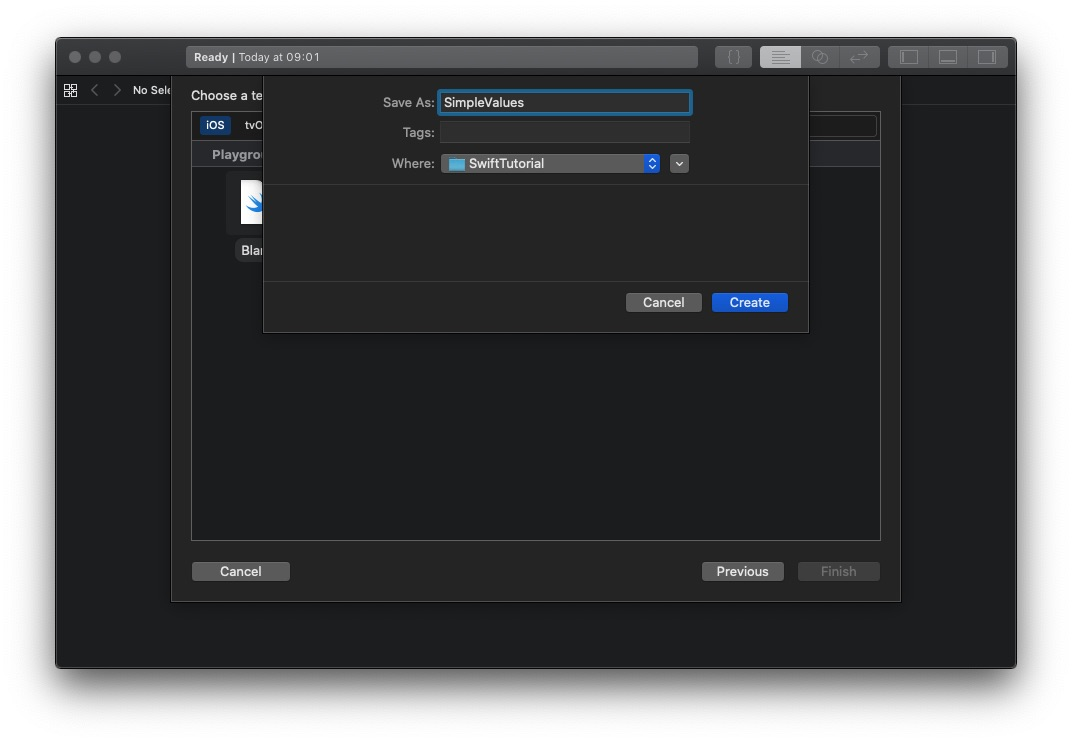
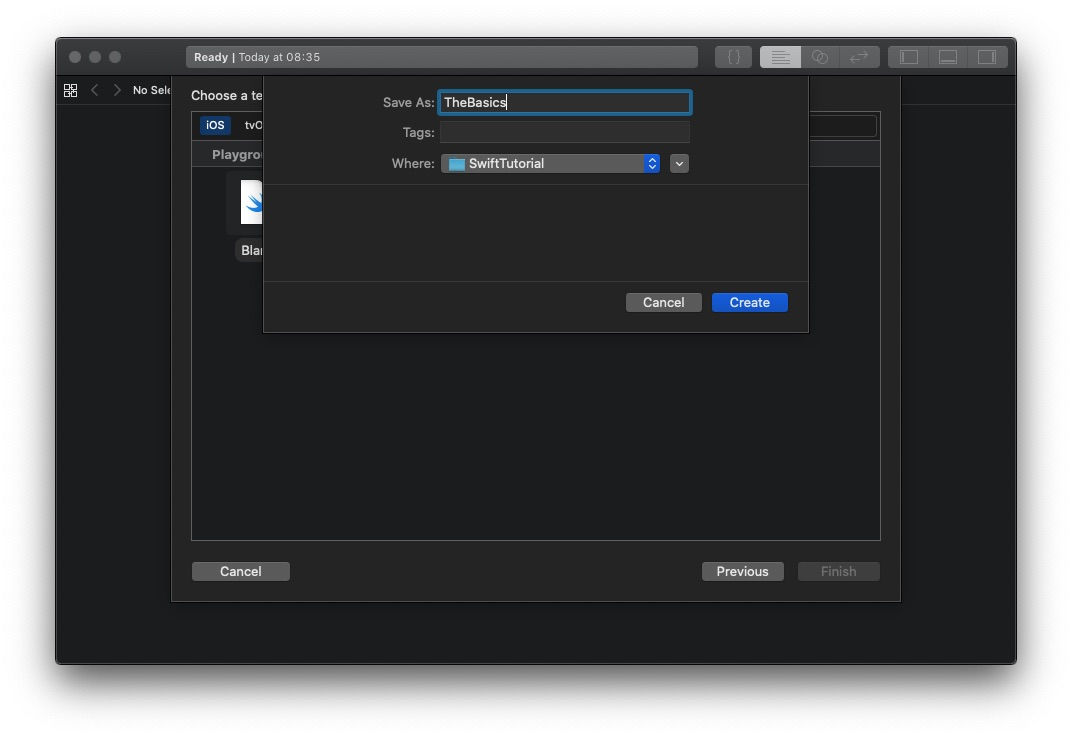
Xong một nửa The Basics

diff --git a/TheBasics.playground/Contents.swift b/TheBasics.playground/Contents.swift
@@ -1,0 +1,87 @@
+
+//print("Hello, world!")
+
+let myConstant = 3.14
+var myVariable = 2
+myVariable = 5
+
+let a = 1, b = 2
+
+var x: Int = 10
+var y: Float
+y = 5.0
+var welcome: String
+welcome = "Xin chào"
+
+let PI = 3.14   // let PI: Double = 3.14
+var count = 3   // var count: Int = 3
+
+let π = 3.14
+var 🐮 = "Con bò"
+🐮 = "The cow"
+
+print(2)
+print("Xin chào")
+print(count)
+print(welcome)
+var name = "Quang"
+var age = 27
+print(name, age)    // In ra nhiều tham số, cách nhau dấu phẩy
+print("Tên:", name) //
+print("Tuổi:", age) //
+print("Xin chào \(name)! Bạn \(age) tuổi rồi à?")   // Truyền vào 2 tham số
+
+// Chú thích 1 dòng
+/* Chú thích nhiều dòng
+ Dòng 2
+ Dòng 3 */
+
+let cat = "🐱"; print(cat)
+
+let minValue = Int32.min   // -2147483648
+let maxValue = Int32.max   // 2147483647
+UInt32.min  // 0
+UInt32.max  // 4294967295
+
+let decimalInteger = 17
+let binaryInteger = 0b10001       // số 17 ở hệ nhị phân
+let octalInteger = 0o21           // số 17 ở hệ bát phân
+let hexadecimalInteger = 0x11     // số 17 ở hệ hexa
+
+let decimalDouble = 12.1875
+let exponentDouble = 1.21875e1
+let hexadecimalDouble = 0xC.3p0
+
+let soNguyen = 1_234_567
+let soThuc = 1_234_567.890_1
+
+let motNghin: UInt16 = 1_000
+let mot: UInt8 = 1
+let motNghinLeMot = motNghin + UInt16(mot)
+
+let soNguyen1: Int8 = -10
+//let soNguyen2: UInt8 = UInt8(soNguyen1) // biên dịch báo lỗi
+
+let phanNguyen = 3
+let phanThuc = 0.14
+let soPI = Double(phanNguyen) + phanThuc
+
+let soThuc1 = Float(Int8.max) + Float(0.9)  // 127.9
+let layPhanNguyen = Int8(soThuc1)   // 127
+
+typealias SoNguyen = UInt8
+let soLonNhat: SoNguyen = SoNguyen.max    // 255
+
+var completed = true
+if completed {
+    print("Đã hoàn thành")
+} else {
+    print("Chưa hoàn thành")
+}
+
+/*
+let i = 1
+if i { // báo lỗi không thể ép kiểu Int thành Bool
+    
+}
+*/

diff --git a/README.md b/README.md
@@ -14,6 +14,7 @@ Yêu cầu: Xcode 10.3, Swift 5.
 Xcode cung cấp môi trường **Playground** giúp viết code và biên dịch trực tiếp.
 
 Để tạo mới file Playground, khởi động Xcode, chọn menu **File -> New -> Playground**, hoặc ở màn hình **"Welcome to Xcode"** chọn **"Get started with a playground"**:
+
 ![Tạo mới file Playground 1](/images/playground1.jpg "Tạo mới file Playground")
 
 Chọn **Blank** -> **Next**:
@@ -22,8 +23,197 @@ Chọn **Blank** -> **Next**:
 Đặt tên file, chọn location lưu file (nếu cần) -> **Create**:
 ![Tạo mới file Playground 3](/images/playground3.jpg "Tạo mới file Playground - Đặt tên, chọn location")
 
-Di con trỏ chuột tới đầu dòng code mình muốn biên dịch tới, sẽ xuất hiện nút Run (Play), click chuột để biên dịch code:
+Di con trỏ chuột tới đầu dòng code mình muốn biên dịch tới, sẽ xuất hiện nút Run (Play), click chuột để biên dịch code (hoặc có thể click nút Execute/Stop ngay góc dưới bên trái để biên dịch):
 ![Biên dịch code](/images/playground4.jpg "Biên dịch code")
 
-Sau khi biên dịch xong, panal bên phải sẽ hiển thị giá trị, kết quả từng dòng code (đây là điểm hay nhất của Playground). Panel phía dưới là màn hình console, tại đây hàm **print("Hello, world!")** sẽ in ra chuỗi "Hello, world".
+Sau khi biên dịch xong, panal bên phải sẽ hiển thị giá trị, kết quả từng dòng code (đây là điểm hay nhất của Playground). Panel phía dưới là màn hình console, tại đây hàm `print("Hello, world!")` sẽ in ra chuỗi "Hello, world".
 ![Xem kết quả](/images/playground5.jpg "Xem kết quả")
+
+## 1. Các khái niệm cơ bản (The Basics)
+
+### 1.1. Biến và hằng (Variables and Constants)
+Sử dụng từ khoá `let` để khai báo hằng, và `var` để khai báo biến:
+```swift
+let myConstant = 3.14
+var myVariable = 2
+myVariable = 5
+```
+Có thể khai báo nhiều biến, hằng trong cùng một dòng:
+```swift
+let a = 1, b = 2
+```
+
+### 1.2. Đặt tên biến, hằng
+Giống như C, Java,... Swift sử các kí tự chữ (a-zA-Z), số (0-9) và dấu gạch dưới (_) để đặt tên, tên không được bắt đầu bằng số. VD: `x`, `num1`, `_member`, `__sum`, `_` đều là tên hợp lệ.
+
+Ngoài ra Swift còn cho phép sử dụng các kí tự Unicode để đặt tên (tuy nhiên trên thực tế ít dùng):
+```swift
+let π = 3.14
+var 🐮 = "Con bò"
+🐮 = "The cow"
+```
+
+### 1.3. In ra biến, hằng
+Sử dụng hàm `print()` để in:
+```swift
+print(2)
+print("Xin chào")
+print(count)
+print(welcome)
+var name = "Quang"
+var age = 27
+print(name, age)    // In ra nhiều tham số, cách nhau dấu phẩy
+print("Tên:", name) //
+print("Tuổi:", age) //
+print("Xin chào \(name)! Bạn \(age) tuổi rồi à?")   // Truyền vào 2 tham số
+```
+
+### 1.4. Chú thích (Comments)
+Sử dụng `//` hoặc `/*` `*/` để tạo chú thích:
+```swift
+// Chú thích 1 dòng
+/* Chú thích nhiều dòng
+Dòng 2
+Dòng 3 */
+```
+
+### 1.5. Dấu chấm phẩy
+Trong Swift sử dụng dấu `;` để ngăn cách 2 câu lệnh trên cùng 1 dòng (thực tế hiếm khi dùng tới dấu chấm phẩy):
+```swift
+let cat = "🐱"; print(cat)
+```
+
+### 1.6. Các kiểu số nguyên
+Swift cung cấp các kiểu số nguyên có dấu và không dấu có kích thước 8, 16, 32, 64 bit như sau: `Int8`, `Int16`, `Int32`, `Int64`, `UInt8`, `UInt16`, `UInt32`, `UInt64`. Trong đó tiền tố `U` là viết tắt của `Unsigned` (không dấu).
+
+Để kiểm tra miền giá trị của các kiểu dữ liệu, chúng ta gọi các thuộc tính tĩnh `min` và `max`:
+```swift
+let minValue = Int32.min   // -2147483648
+let maxValue = Int32.max   // 2147483647
+UInt32.min  // 0
+UInt32.max  // 4294967295
+```
+
+#### Kiểu Int
+Swift cung cấp thêm kiểu số nguyên thông dụng và thường dùng hơn là `Int`, kiểu này có kích thước phục thuộc vào nề tảng hệ điều hành thực thi là 32-bit hay 64-bit.
+* Trên nền tảng 32-bit, `Int` tương đương với `Int32`
+* Trên nền tảng 64-bit, `Int` tương đương với `Int64`
+
+#### Kiểu UInt
+`UInt` là kiểu số nguyên không dấu, tương tự như kiểu `Int`:
+* Trên nền tảng 32-bit, `UInt` tương đương với `UInt32`
+* Trên nền tảng 64-bit, `UInt` tương đương với `UInt64`
+
+### 1.7. Các kiểu số thực (số thập phân)
+Có 2 kiểu số thực là `Double` và `Float`:
+* `Double` biểu diễn số thực 64-bit
+* `Float` biểu diễn số thực 32-bit
+
+### 1.8. Chỉ rõ kiểu dữ liệu
+```swift
+var x: Int = 10
+var y: Float
+y = 5.0
+var welcome: String
+welcome = "Xin chào"
+```
+`x` sẽ có kiểu dữ liệu là Int, `y` có kiểu dữ liệu Float, `welcome` có kiểu dữ liệu String.
+
+Nếu không chỉ rõ kiểu dữ liệu, trình biên dịch sẽ ngầm định kiểu dữ liệu:
+```swift
+let PI = 3.14   // PI có kiểu Double
+var count = 3   // count có kiểu dữ liệu Int
+```
+Hai câu lệnh trên tương đương với:
+```swift
+let PI: Double = 3.14
+var count: Int = 3
+```
+
+### 1.9. Biểu diễn số
+Các số nguyên được biểu diễn dưới các dạng:
+* Hệ cơ số 10 - thập phân (decimal), không có tiền tố (prefix)
+* Hệ cơ số 2 - nhị phân (binary), bắt đầu bằng `0b`
+* Hệ cơ số 8 - bát phân (octal), bắt đầu bằng `0o`
+* Hệ cơ số 16 - thập lục phân (hexadecimal), bắt đầu bằng `0x`
+
+Ví dụ biểu diễn số 17:
+```swift
+let decimalInteger = 17
+let binaryInteger = 0b10001       // số 17 ở hệ nhị phân
+let octalInteger = 0o21           // số 17 ở hệ bát phân
+let hexadecimalInteger = 0x11     // số 17 ở hệ thập lục phân
+```
+Hệ thập lục phân thường được sử dụng để khởi tạo mã màu trong lập trình.
+
+Các số thực được biểu diễn dưới dạng thập phân (decimal) hoặc thập lục phân (hexadecimal). Số thực dạng thập phân có thể biểu diễn ở dạng số mũ (exponent), sử dụng `E` hoa hoặc `e` thường. Ví dụ:
+* 1.25e2 (nghĩa là 1.25 x 10 ^ 2 = 125.0)
+* 1.25e-2 (nghĩa là 1.25 x 10 ^ -2 = 0.0125)
+
+Số thực dạng thập lục phân bắt buộc biểu diễn ở dạng số mũ, sử dụng `P` hoa hoặc `p` thường. Ví dụ:
+* 0xFp2 (nghĩa là 15 x 2 ^ 2 = 60.0)
+* 0xFp-2 (nghĩa là 15 x 2 ^ -2 = 3.75)
+
+Như vậy, số 12.1875 có tất cả các dạng biểu diễn sau:
+```swift
+let decimalDouble = 12.1875
+let exponentDouble = 1.21875e1
+let hexadecimalDouble = 0xC.3p0
+```
+
+Khi biểu diễn những con số quá dài, chúng ta có thể sử dụng dấu gạch dưới (`_`) để ngăn cách các hàng đơn vị cho dễ nhìn:
+```swift
+let soNguyen = 1_234_567
+let soThuc =. 1_234_567.890_1
+```
+
+### 1.10. Chuyển đổi số (ép kiểu)
+#### Chuyển đổi giữa các số nguyên
+Để tính toán giữa các kiểu dữ liệu số khác nhau, chúng ta phải chuyển đổi về cùng 1 kiểu. Ở ví dụ dưới, ta ép kiểu của `mot` từ `UInt8` thành `UInt16` để thực hiện phép cộng:
+```swift
+let motNghin: UInt16 = 1_000
+let mot: UInt8 = 1
+let motNghinLeMot = motNghin + UInt16(mot)
+```
+Tất cả các kiểu dữ liệu số đều có thể chuyển đổi qua lại cho nhau. Để ép kiểu thành công thì số được ép kiểu phải thuộc miền giá trị của kiểu dữ liệu. Ở ví dụ dưới, -10 không thuộc miền giá trị của `UInt8` (từ 0 đến 255) nên ép kiểu thất bại:
+```swift
+let soNguyen1: Int8 = -10
+let soNguyen2: UInt8 = UInt8(soNguyen1) // biên dịch báo lỗi
+```
+
+#### Chuyển đổi giữa số nguyên và số thực
+Hoàn toàn tương tự như trên khi ép kiểu giữa các số thực, hoặc ép kiểu từ số nguyên sang số thực:
+```swift
+let phanNguyen = 3
+let phanThuc = 0.14
+let soPI = Double(phanNguyen) + phanThuc
+```
+Khi ép kiểu từ số thực về số nguyên, chỉ cần phần nguyên của số thực không vượt quá miền giá trị của kiểu số nguyên thì ép kiểu thành công:
+```swift
+let soThuc1 = Float(Int8.max) + Float(0.9)  // 127.9
+let layPhanNguyen = Int8(soThuc1)   // 127
+```
+
+### 1.11. Type Aliases
+Type aliases định nghĩa tên mới cho một kiểu dữ liệu có sẵn, sử dụng từ khoá `typealias`. Ví dụ:
+```swift
+typealias SoNguyen = UInt8
+let soLonNhat: SoNguyen = SoNguyen.max    // 255
+```
+### 1.12. Kiểu Bool (Boolean)
+Swift cung cấp kiểu `Bool` với 2 giá trị `true` và `false`. Giống như các ngôn ngữ khác, kiểu `Bool` thường được dùng trong các câu lệnh rẽ nhánh (if...else...):
+```swift
+var completed = true
+if completed {
+print("Đã hoàn thành")
+} else {
+print("Chưa hoàn thành")
+}
+```
+Không giống với `C` hay `Java`, giá trị `true` và `false` không tương đương với 1 và 0. Đoạn lệnh sau sẽ báo lỗi:
+```swift
+let i = 1
+if i { // báo lỗi không thể ép kiểu Int thành Bool
+
+}
+```
